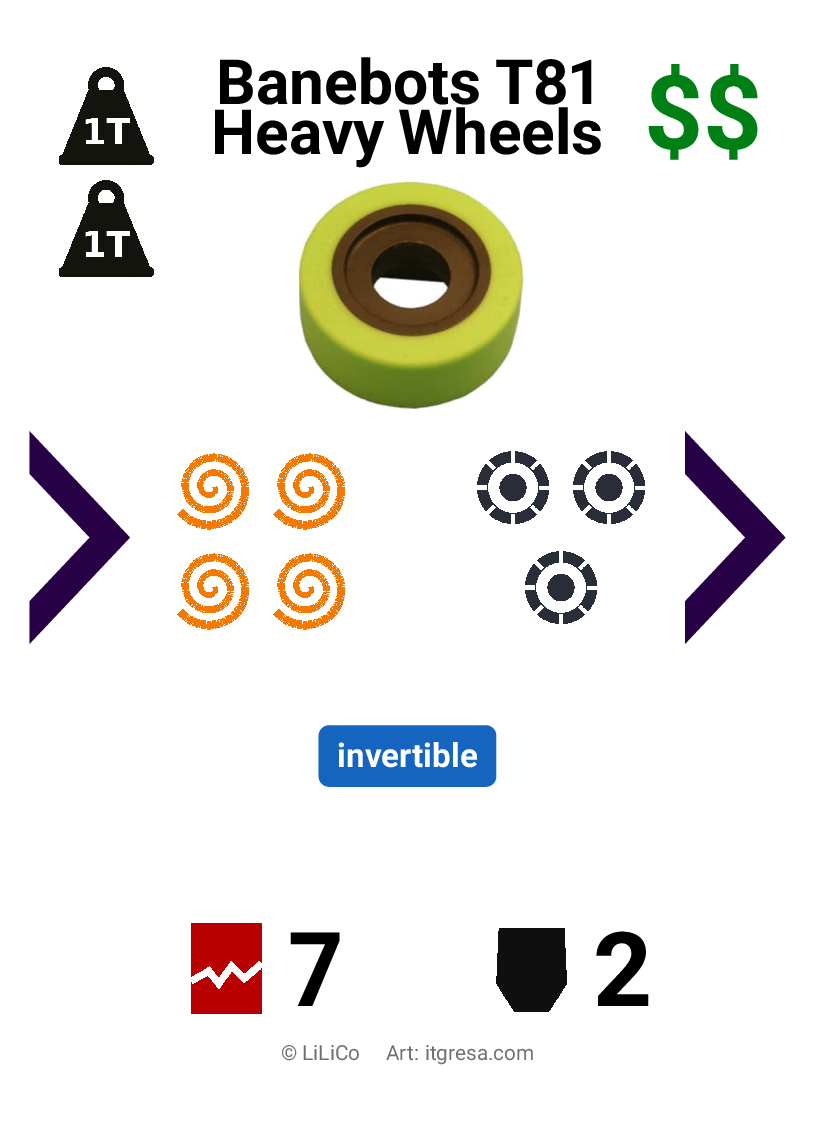
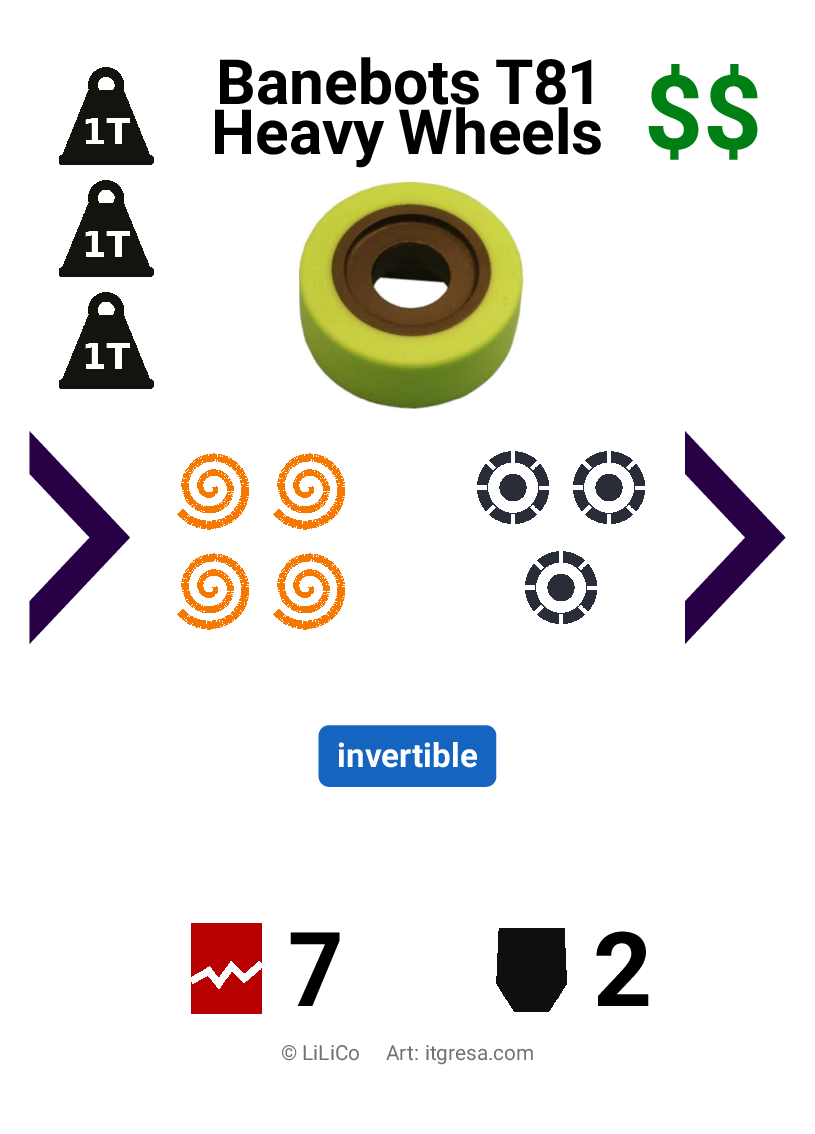
update rules

Changed region(s): [[0.0613, 0.2469, 0.184, 0.3704]]

diff --git a/rules/combat_robotics_game.tex b/rules/combat_robotics_game.tex
@@ -455,10 +455,9 @@ For a collision, first determine which octant of each robot makes contact with t
 
 Essentially a pushing match between colliding chassis surfaces:
 \begin{itemize}
-  \item The pair of robots move in the line drawn between their two centers through the point of contact.
-  \item The distance they move is the sum of their remaining motion in that direction: all other distance is lost.
+  \item The pair of robots move in a straight line created by summing their remaining motion templates.
   \item If a robot is pushed into a wall, it is thrown with a throw strength equal to the amount it would have moved if the wall wasn't there.
-  \item Each robot takes feedback shared equally between its remaining active drive equal to the remaining distance the opponent had before the contact.
+  \item Each robot takes feedback equal to the remaining distance the opponent had before the contact at each of its remaining active drive.
   \item After any inertial contact, separate the robots by moving them both away from each other one step if possible.
 \end{itemize}
 
@@ -533,8 +532,6 @@ to each component that supplies it, shared equally if there are multiple compone
   \item \textbf{Throw Damage:} Throw feedback equals half the throw strength (rounded down), unless the robot hits a wall (which inflicts full throw strength).
   \item \textbf{Active into Inertial Contact:} If after active contact the robots are still in contact, proceed with inertial contact.
   \item \textbf{Inertial Separation:} After any inertial contact, separate the robots by moving them both away from each other 1 step if possible.
-  \item \textbf{Wedge Immunity:} A component with the Wedge keyword prevents the robot from being thrown when hit; this effect does not apply if the robot is raised.
-  \item \textbf{Durability in Play:} Total durability is not recorded anywhere in gameplay.
   \item \textbf{Feedback Backward Propagation:} Reverse flow from component back into power/pressure suppliers, distributed equally (rounded down).
 \end{itemize}
 \end{summarybox}
@@ -546,11 +543,13 @@ to each component that supplies it, shared equally if there are multiple compone
 % ==============================================================================
 
 \section{Game Formats}
+\subsection{Robot Weight Limits}
+The default weight limit is 40. Feel free to set a different weight limit for your own play, but that is the number used for the automata.
 
 \subsection{Preconstructed}
 
 \begin{itemize}
-  \item Each player brings a build deck up to the budget chosen (we recommend \$25).
+  \item Each player brings a build deck up to the budget chosen (we recommend \$40).
   \item Then you each build a robot from that up to the weight limit and fight with those.
 \end{itemize}
 
@@ -560,7 +559,7 @@ to each component that supplies it, shared equally if there are multiple compone
   \item There is a pool in the middle of cards, split into basic and special.
   \item You can grab anything from the basic pile.
   \item For special cards, there is a market of 9 face-up cards you can take from, after which you must reveal the next card. You cannot return any card you have taken to the supply once you have taken it.
-  \item You cannot take more total cost than your budget (\$25 recommended).
+  \item You cannot take more total cost than your budget (\$40 recommended).
   \item From this pool, you build your robot to fight with. You are considered to have an infinite supply of all free components.
 \end{itemize}
 
@@ -597,6 +596,6 @@ Roll this after deciding your own drive values.
 \noindent\textbf{Automaton Power Allocation:}\\
 If an automaton robot has insufficient supply to power all connected components, it chooses which components to supply in order: self-righting mechanisms (if it is inverted), then weapons, then drive.
 
-
+\
 
 \end{document}
